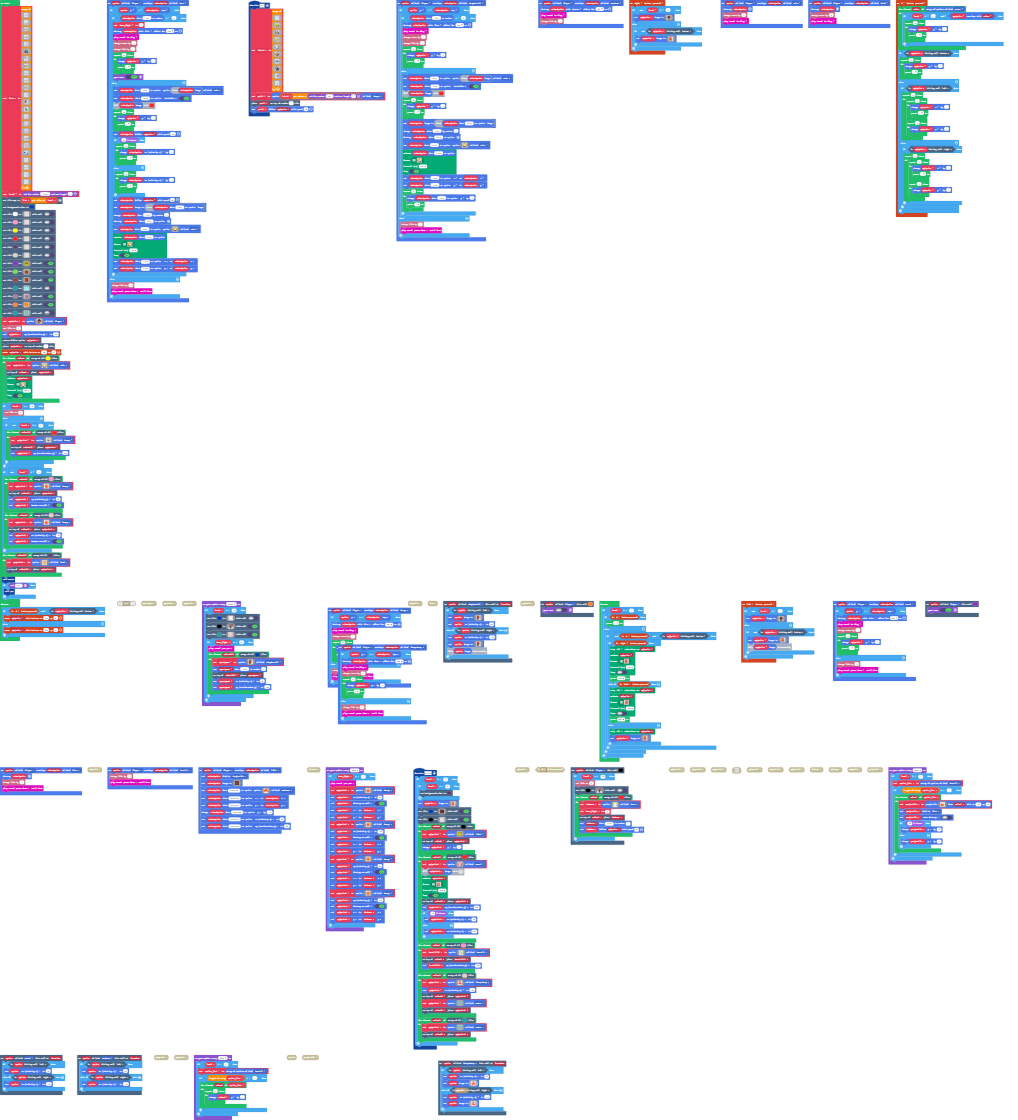
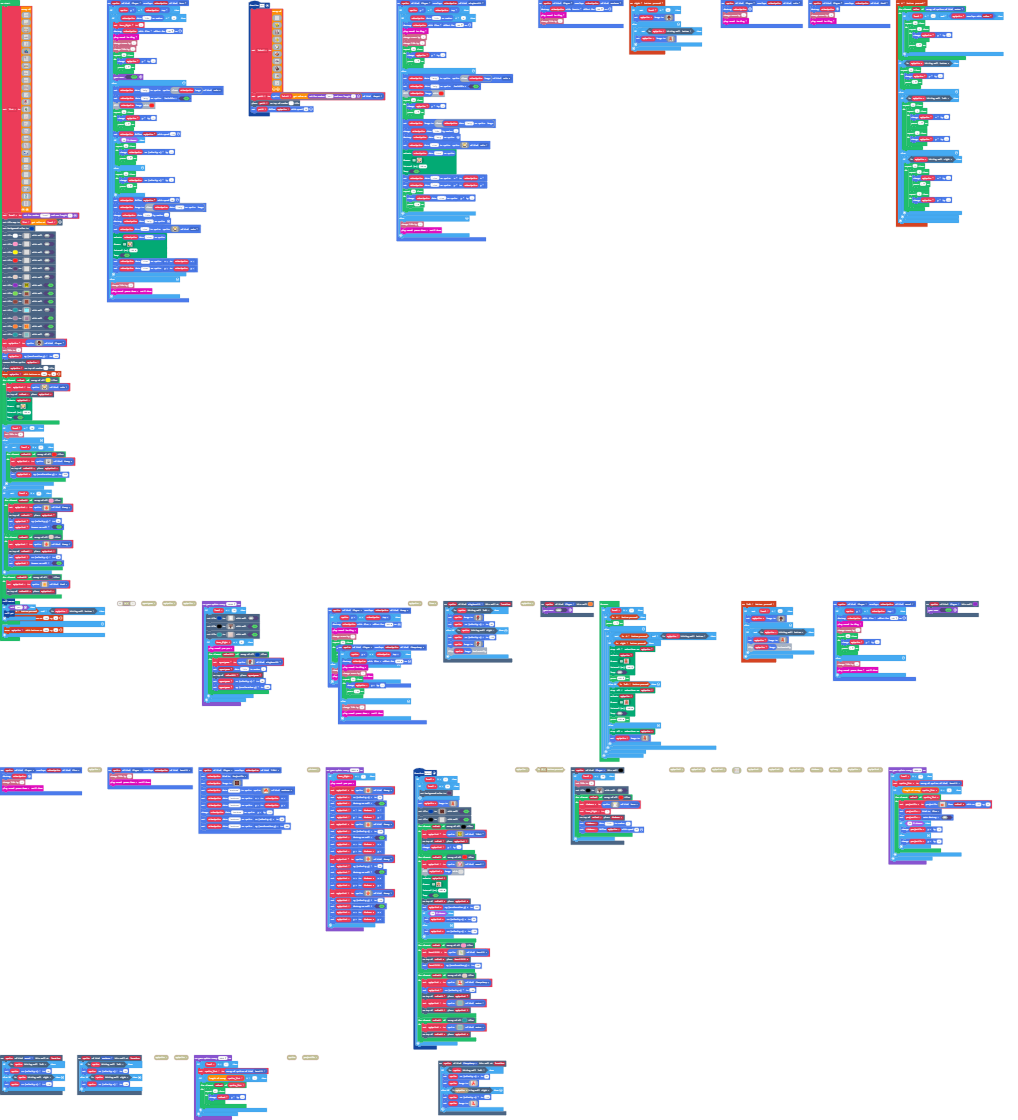
Update main.blocks, main.ts

Changed region(s): [[0.0, 0.1562, 0.0914, 0.5625], [0.8831, 0.0, 1.0, 0.2188]]

diff --git a/main.ts b/main.ts
@@ -460,8 +460,10 @@ sprites.onOverlap(SpriteKind.Player, SpriteKind.minyboss221, function (sprite, o
 controller.A.onEvent(ControllerButtonEvent.Pressed, function () {
     for (let value of sprites.allOfKind(SpriteKind.woter)) {
         if (level >= 17 && mySprite.overlapsWith(value)) {
-            for (let index = 0; index < 34; index++) {
-                mySprite.y += -1
+            for (let index = 0; index < 10; index++) {
+                for (let index = 0; index < 5; index++) {
+                    mySprite.y += -1
+                }
                 pause(1)
             }
         }
@@ -1745,6 +1747,158 @@ img`
     d 6 . . 1 . . . . . . . 7 7 7 e e e e e e e e e e . . 8 8 . . 8 8 . . . 8 8 . . . . 8 8 8 . . . . 8 8 8 . 8 . 8 . 8 . 8 . 8 8 . 8 . e e . . . . e e e e e 6 6 6 6 6 e e e e e e e 6 6 6 6 6 e e e e e e 
     d 6 . . . . 7 7 7 7 7 7 e e e e e e e e e e e e e . . 8 8 . . 8 8 . . . 8 8 . . . . 8 8 8 . . . . 8 8 8 . 8 . 8 . 8 . 8 . 8 8 . 8 . e e . . . . e e e e e 6 6 6 6 6 e e e e e e e 6 6 6 6 6 e e e e e e 
     6 6 7 7 7 7 e e e e e e e e e e e e e e e e e e e 4 4 8 8 4 4 8 8 4 4 4 8 8 4 4 4 4 8 8 8 4 4 4 4 8 8 8 4 8 4 8 4 8 4 8 4 8 8 4 8 4 e e 4 4 4 4 e e e e e 4 4 4 4 4 e e e e e e e 4 4 4 4 4 e e e e e e 
+    `,
+img`
+    . . . . . . . . . . . . . . . . 
+    . . . . . . . . . . . . . . . . 
+    . . . . . . . . . . . . . . . . 
+    d . . . . . . . . . . . . . . d 
+    d 6 . . . . . . . . . . . . 6 d 
+    d 6 6 . . . . . . . . . . 6 6 d 
+    a b b b b b b b b b b . . 6 6 6 
+    b . . . . . . . . . . . . 6 6 6 
+    . . . . . . . . . b b b b 6 6 6 
+    . . . . . . . . . . . . . 6 6 6 
+    . 2 . . . . . . . . . . 2 6 6 6 
+    b b b b b b b b b b . . b b b b 
+    . . . . . . . . . . . . . . . . 
+    1 . . . . . . . . . . . . . . . 
+    . . . . . . . . b b b b b b b b 
+    b b b b b b b b b b b b b b b b 
+    `,
+img`
+    a a a a a a a a a a a a a a a a 
+    a a a a a a a a a a a a a a a a 
+    . . . . 6 6 6 6 6 . . . . . . . 
+    . . . . 6 6 6 6 6 . . . . . . . 
+    . . . . 6 6 6 6 6 . . . . . . . 
+    . . . . 6 6 6 6 d 6 . . . . . . 
+    . . . . 6 6 6 6 6 6 6 . . . . . 
+    . . . . 6 6 6 6 6 6 6 6 . . . . 
+    . . . . 6 6 6 6 6 6 6 6 . . . . 
+    . . . . 6 d 6 6 6 6 6 6 . . . . 
+    . . . . . 6 6 6 6 6 6 6 . . . . 
+    . . . . . . . 6 6 6 6 6 . . . . 
+    . . . . . . . 6 6 6 6 d . . . . 
+    . . . 6 6 6 6 6 6 6 6 6 . . . . 
+    . . . 6 6 6 6 6 6 6 6 6 . . . . 
+    . . . 6 6 6 6 6 6 6 6 6 . . . . 
+    . . . 6 6 6 6 6 6 6 6 6 . . . . 
+    . . . 6 6 6 6 d 6 . . . . . . . 
+    . . . 6 6 6 6 6 . . . . . . . . 
+    . . . 6 6 6 6 6 . . . . . . . . 
+    . . . 6 6 6 6 6 6 . . . . . . . 
+    . . . 6 6 6 6 6 6 . . . . d . . 
+    . . . 6 6 6 6 6 6 6 . . . . . . 
+    . . . 6 6 6 6 6 6 6 . . . . . . 
+    d . . . 6 6 6 6 6 6 . . . . . . 
+    . . . . 6 6 6 6 6 6 . . . 8 f 8 
+    . . . . . 6 6 6 6 6 . . . . . . 
+    1 . . . . . 6 d 6 6 . . . . . . 
+    . . . . . . 6 6 6 6 . . . b b b 
+    b b b b b b b b b b b b b b b b 
+    `,
+img`
+    b b b b b b b b b b b b b b b b b b b b b b b b b b b b b b b b b b b b b b b b b b b b b b b b b b b b b b b b b b b b 
+    b b b b b b b b b b b b b b b b b b b b b b b b b b b b b b b b b b b b b b b b b b b b b b b b b b b b b b b b b b b b 
+    b b b b b b b b b b b b b b b b b b b b b b b b b b b b b b b b b b b b b b b b b b b b b b b b b b b b b b b b b b b b 
+    b b b b b b b b b b b b b b b b b b b b b b b b b b b b b b b b b b b b b b b b b b b b b b b b b b b b b b b b b b b b 
+    b b b b b b b b b b b b b b b b b b b b b b b b b b b b b b b b b b b b b b b b b b b b b b b b b b b b b b b b b b b b 
+    b b b b b b b b b b b b b b b b b b b b b b b b b b b b b b b b b b b b b b b b b b b b b b b b b b b b b b b b b b b b 
+    b b b b b b b b b b b b b b b b b b b b b b b b b b b b b b b b b b b b b b b b b b b b b b b b b b b b b b b b b b b b 
+    b b b b b b b b b b b b b b b b b b b b b b b b b b b b b b b b b b b b b b b b b b b b b b b b b b b b b b b b b b b b 
+    b b b b b b b b b b b b b b b b b b b b b b b b b b b b b b b b b b b b b b b b b b b b b b b b b b b b b b b b b b b b 
+    b b b b b b b b b b b b b b b b b b b b b b b b b b b b b b b b b b b b b b b b b b b b b b b b b b b b b b b b b b b b 
+    b b b b b b b b b b b b b b b b b b b b b b b b b b b b b b b b b b b b b b b b b b b b b b b b b b b b b b b b b b b b 
+    b b b b b b b b b b b b b b b b b b b b b b b b b b b b b b b b b b b b b b b b b b b b b b b b b b b b b b b b b b b b 
+    b b b b b b b b b b b b b b b b b b b b b b b b b b b b b b b b b b b b b b b b b b b b b b b b b b b b b b b b b b b b 
+    b b b b b b b b b b b b b b b b b b b b b b b b b b b b b b b b b b b b b b b b b b b b b b b b b b b b b b b b b b b b 
+    b b b b b b b b b b b b b b b b b b b b b b b b b b b b b b b b b b b b b b b b b b b b b b b b b b b b b b b b b b b b 
+    b b b b b b b b b b b b b b b b b b b b b b b b b b b b b b b b b b b b b b b b b b b b b b b b b b b b b b b b b b b b 
+    b b b b b b b b b b b b b b b b b b b b b b b b b b b b b b b b b b b b b b b b b b b b b b b b b b b b b b b b b b b b 
+    b b b b b b b b b b b b b b b b b b b b b b b b b b b b b b b b b b b b b b b b b b b b b b b b b b b b b b b b b b b b 
+    b b b b b b b b b b b b b b b b b b b b b b b b b b b b b b b b b b b b b b b b b b b b b b b b b b b b b b b b b b b b 
+    b b b b b b b b b b b b b b b b b b b b b b b b b b b b b b b b b b b b b b b b b b b b b b b b b b b b b b b b b b b b 
+    b b b b b b b b b b b b b b b b b b b b b b b b b b b b b b b b b b b b b b b b b b b b b b b b b b b b b b b b b b b b 
+    b b b b b b b b b b b b b b b b b b b b b b b b b b b b b b b b b b b b b b b b b b b b b b b b b b b b b b b b b b b b 
+    b b b b b b b b b b b b b b b b b b b b b b b b b b b b b b b b b b b b b b b b b b b b b b b b b b b b b b b b b b b b 
+    b b b b b b b b b b b b b b b b b b b b b b b b b b b b b b b b b b b b b b b b b b b b b b b b b b b b b b b b b b b b 
+    b b b b b b b b b b b b b b b b b b b b b b b b b b b b b b b b b b b b b b b b b b b b b b b b b b b b b b b b b b b b 
+    b b b b b b b b b b b b b b b b b b b b b b b b b b b b b b b b b b b b b b b b b b b b b b b b b b b b b b b b b b b b 
+    b b b b b b b b b b b b b b b b b b b b b b b b b b b b b b b b b b b b b b b b b b b b b b b b b b b b b b b b b b b b 
+    b b b b b b b b b b b b b b b b b b b b b b b b b b b b b b b b b b b b b b b b b b b b b b b b b b b b b b b b b b b b 
+    b b b b b b b b b b b b b b b b b b b b b b b b b b b b b b b b b b b b b b b b b b b b b b b b b b b b b b b b b b b b 
+    b b b b b b b b b b b b b b b b b b b b b b b b b b b b b b b b b b b b b b b b b b b b b b b b b b b b b b b b b b b b 
+    b b b b b b b b b b b b b b b b b b b b b b b b b b b b b b b b b b b b b b b b b b b b b b b b b b b b b b b b b b b b 
+    b b b b b b b b b b b b b b b b b b b b b b b b b b b b b b b b b b b b b b b b b b b b b b b b b b b b b b b b b b b b 
+    b b b b b b b b b b b b b b b b b b b b b b b b b b b b b b b b b b b b b b b b b b b b b b b b b b b b b b b b b b b b 
+    b b b b b b b b b b b b b b b b b b b b b b b b b b b b b b b b b b b b b b b b b b b b b b b b b b b b b b b b b b b b 
+    b b b b b b b b b b b b b b b b b b b b b b b b b b b b b b b b b b b b b b b b b b b b b b b . b b b b b b b b b b b b 
+    b b b b b b b b b b b b b b b b b b . . . . . . . . . . . . . . . . . . . . . . . . . . . . . . . . . . . . . . . . . . 
+    b b b b b b b b b b b b b b b b b b . . . . . . . . . . . . . . . . . . . . . . . . . . . . . . . . . . . . . . . . . . 
+    b b b b b b b b b b b b b b b b b b . . . . . . . . . . . . . . . . . . . . . . . . . . . . . . . . . . . . . . . . . . 
+    b b b b b b b b b b b b b b b b b b . . . . . . . . . . . . . . . . . . . . . . . . . . . . . . . . . . 3 . . . . . . . 
+    b b b b b b b b b b b b b b b b b b . . 8 f 8 f 8 . . . . . . . . . . . . . . . . . . . . . . . . . . . . . . . . . . . 
+    b b b b b b b b b b b b b b b b b b . . . . . . . . . . . . . . . . . . . . . . . . . . . . . . . . . . . . . . . . . a 
+    b b b b b b b b b b b b b b b b b b . . . . . . . . . . . . . . . . . b b b b b b b b b b b b b b b b b b b b b b b b b 
+    b b b b b b b b b b b b b b b b b b b b b b b 6 6 b b b b b 6 6 b b b b b b b b b b b . . . . . . . . . . . b b b b b b 
+    b b b b b b b b b b b b b b b b b b . . . . . 6 6 . . . . . 6 6 . . . b b b b b b b b 4 4 4 4 4 4 4 4 4 4 4 b b b b b b 
+    b b b b b b b b b b b b b b b b b b . . . . . 6 6 . . . . . 6 6 . . . b b b b b b b b b b b b b b b b b b b b b b b b b 
+    b b b b b b b b b b b b b b b b b b . . . . . 6 6 6 6 6 6 6 6 6 . . . b b b b b b b b b b b b b b b b b b b b b b b b b 
+    b b b b b b b b b b b b b b b b b b . . . . . . . . . 6 6 . . . . . . b b b b b b b b b b b b b b b b b b b b b b b b b 
+    b b b b b b b b b b b b b b b b b b . . . . . . . . . 6 6 . . . . . . b b b b b b b b b b b b b b b b b b b b b b b b b 
+    b b b b b b b b b b b b b b b b b b . . . . . . . . . 6 6 . . . . . . b b b b b b b b b b b b b b b b b b b b b b b b b 
+    b b b b b b b b b b b b b b b b b b . . . . . . . . . 6 6 . . . . . . b b b b b b b b b b b b b b b b b b b b b b b b b 
+    b b b b b b b b b b b b b b b b b b b b b b b 6 6 6 6 6 6 6 6 6 b b b b b b b b b b b b b b b b b b b b b b b b b b b b 
+    b b b b b b b b b b b b b b b b b b . . . . . 6 6 . . . . . 6 6 . . . b b b b b b b b b b b b b b b b b b b b b b b b b 
+    b b b b b b b b b b b b b b b b b b . . . . . 6 6 . . . . . 6 6 . . . b b b b b b b b b b b b b b b b b b b b b b b b b 
+    b b b b b b b b b b b b b b b b b b . . . . . 6 6 . . . . . 6 6 . . . b b b b b b b b b b b b b b b b b b b b b b b b b 
+    b b b b b b b b b b b b b b b b b b . . . . . 6 6 6 6 6 6 6 6 6 . . . b b b b b b b b b b b b b b b b b b b b b b b b b 
+    b b b b b b b b b b b b b b b b b b . . . . . . . . 6 6 6 . . . . . . b b b b b b b b b b b b b b b b b b b b b b b b b 
+    b b b b b b b b b b b b b b b b b b . . . . . . . . 6 6 6 . . . . . . b b b b b b b b b b b b b b b b b b b b b b b b b 
+    b b b b b b b b b b b b b b b b b b . . . . . . . . 6 6 6 . . . . . . b b b b b b b b b b b b b b b b b b b b b b b b b 
+    b b b b b b b b b b b b b b b b b b . . . . . . . . 6 6 6 . . . . . . b b b b b b b b b b b b b b b b b b b b b b b b b 
+    b b b b b b b b b b b b b b b b b b . . . . . 6 6 6 6 6 6 6 6 6 . . . b b b b b b b b b b b b b b b b b b b b b b b b b 
+    b b b b b b b b b b b b b b b b b b . . . . . 6 6 . . . . . 6 6 . . . b b b b b b b b b b b b b b b b b b b b b b b b b 
+    b b b b b b b b b b b b b b b b b b . . . . . 6 6 . . . . . 6 6 . . . b b b b b b b b b b b b b b b b b b b b b b b b b 
+    b b b b b b b b b b b b b b b b b b . . . . . 6 6 . . . . . 6 6 . . . b b b b b b b b b b b b b b b b b b b b b b b b b 
+    b b b b b b b b b b b b b b b b b b . . . . . 6 6 6 6 6 6 6 6 6 . . . b b b b b b b b b b b b b b b b b b b b b b b b b 
+    b b b b b b b b b b b b b b b b b b . . . . . . . . 6 6 . . . . . . . b b b b b b b b b b b b b b b b b b b b b b b b b 
+    b b b b b b b b b b b b b b b b b b . . . . . . . . 6 6 . . . . . . . b b b b b b b b b b b b b b b b b b b b b b b b b 
+    b b b b b b b b b b b b b b b b b b b b b b b b b b 6 6 b b b b b b b b b b b b b b b b b b b b b b b b b b b b b b b b 
+    b b b b b b b b b b b b b b b b b b . . . . . . . . 6 6 . . . . . . . b b b b b b b b b b b b b b b b b b b b b b b b b 
+    b b b b b b b b b b b b b b b b b b . . . . . . . . 6 6 . . . . . . . b b b b b b b b b b b b b b b b b b b b b b b b b 
+    b b b b b b b b b b b b b b b b b b . . . . . . . . 6 6 . . . . . . . b b b b b b b b b b b b b b b b b b b b b b b b b 
+    b b b b b b b b b b b b b b b b b b . . . . . . . . 6 6 . . . . . . . b b b b b b b b b b b b b b b b b b b b b b b b b 
+    b b b b b b b b b b b b b b b b b b . . . . . . . . 6 6 . . . . . . . b b b b b b b b b b b b b b b b b b b b b b b b b 
+    b b b b b b b b b b b b b b b b b b . . . . . . . . 6 6 . . . . . . . b b b b b b b b b b b b b b b b b b b b b b b b b 
+    b b b b b b b b b b b b b b b b b b . . . . . . . . b b . . . . . . . b b b b b b b b b b b b b b b b b b b b b b b b b 
+    b b b b b b b b b b b b b b b b b b . . . . . . . b b b b . . . . . . b b b b b b b b b b b b b b b b b b b b b b b b b 
+    b b b b b b b b b b b b b b b b b b d . . . . . . . . . . . . . . . d b b b b b b b b b b b b b b b b b b b b b b b b b 
+    b b b b b b b b b b b b b b b b b b . . . . . b b b b b b b b . . . . b b b b b b b b b b b b b b b b b b b b b b b b b 
+    b b b b b b b b b b b b b b b b b b b b b b . . . . . . . . . . b b b b b b b b b b b b b b b b b b b b b b b b b b b b 
+    b b b b b b b b b b b b b b b b b b . . . . . . . . . . . . . . . . . b b b b b b b b b b b b b b b b b b b b b b b b b 
+    b b b b b b b b b b b b b b b b b b . . . . b b . . . . . b b . . . . b b b b b b b b b b b b b b b b b b b b b b b b b 
+    b b b b b b b b b b b b b b b b b b d . . . . . . . 6 6 . . . . . . d b b b b b b b b b b b b b b b b b b b b b b b b b 
+    b b b b b b b b b b b b b b b b b b 8 8 8 8 8 8 8 8 6 6 8 8 8 8 8 8 8 b b b b b b b b b b b b b b b b b b b b b b b b b 
+    b b b b b b b b b b b b b b b b b b . . . . . . . 8 6 6 8 . . . . . . b b b b b b b b b b b b b b b b b b b b b b b b b 
+    b b b b b b b b b b b b b b b b b b . . . . . . . 8 6 6 8 . . . . . . b b b b b b b b b b b b b b b b b b b b b b b b b 
+    b b b b b b b b b b b b b b b b b b . . . . . . . 8 6 6 8 . . . . . . b b b b b b b b b b b b b b b b b b b b b b b b b 
+    b b b b b b b b b b b b b b b b b b . . . . . . . 8 6 6 8 . . . . . . b b b b b b b b b b b b b b b b b b b b b b b b b 
+    b b b b b b b b b b b b b b b b b b . . . . . . . 8 6 6 8 . . . . . . b b b b b b b b b b b b b b b b b b b b b b b b b 
+    b b b b b b b b b b b b b b b b b b . . . . . . . 8 6 6 8 . . . . . . b b b b b b b b b b b b b b b b b b b b b b b b b 
+    b b b b b b b b b b b b b b b b b b . . . . . . . 8 6 6 . . . . . . . b b b b b b b b b b b b b b b b b b b b b b b b b 
+    b b b b b b b b b b b b b b b b b b . . . c . . . 8 6 6 . . . . . . . b b b b b b b b b b b b b b b b b b b b b b b b b 
+    b b b b b b b b b b b b b b b b b b . . 8 8 8 . . 8 8 8 . . 8 8 8 . . b b b b b b b b b b b b b b b b b b b b b b b b b 
+    b b b b b b b b b b b b b b b b b b . . . . . . . . . . . . . . . . . b b b b b b b b b b b b b b b b b b b b b b b b b 
+    b b b b b b b b b b b b b b b b b b 8 . . . . . . . . . . . . . . . 8 b b b b b b b b b b b b b b b b b b b b b b b b b 
+    b b b b b b b b b b b b b b b b b b . . . . . . . . . . . . . . . . . b b b b b b b b b b b b b b b b b b b b b b b b b 
+    b b b b b b b b b b b b b b b b b b . 8 8 8 . . . . . . . . . 8 8 8 . b b b b b b b b b b b b b b b b b b b b b b b b b 
+    b b b b b b b b b b b b b b b b b b . . . . . . . . . . . . . . . . . b b b b b b b b b b b b b b b b b b b b b b b b b 
+    b b b b b b b b b b b b b b b b b b . . . . 8 8 8 . 1 . 8 8 8 . . . . b b b b b b b b b b b b b b b b b b b b b b b b b 
+    b b b b b b b b b b b b b b b b b b d . . . . . . . . . . . . . . . d b b b b b b b b b b b b b b b b b b b b b b b b b 
+    b b b b b b b b b b b b b b b b b b d . . . . . . 8 8 8 . . . . . . d b b b b b b b b b b b b b b b b b b b b b b b b b 
+    b b b b b b b b b b b b b b b b b b b b b b b b b b b b b b b b b b b b b b b b b b b b b b b b b b b b b b b b b b b b 
     `
 ]
 level = game.askForNumber("level", 2)
